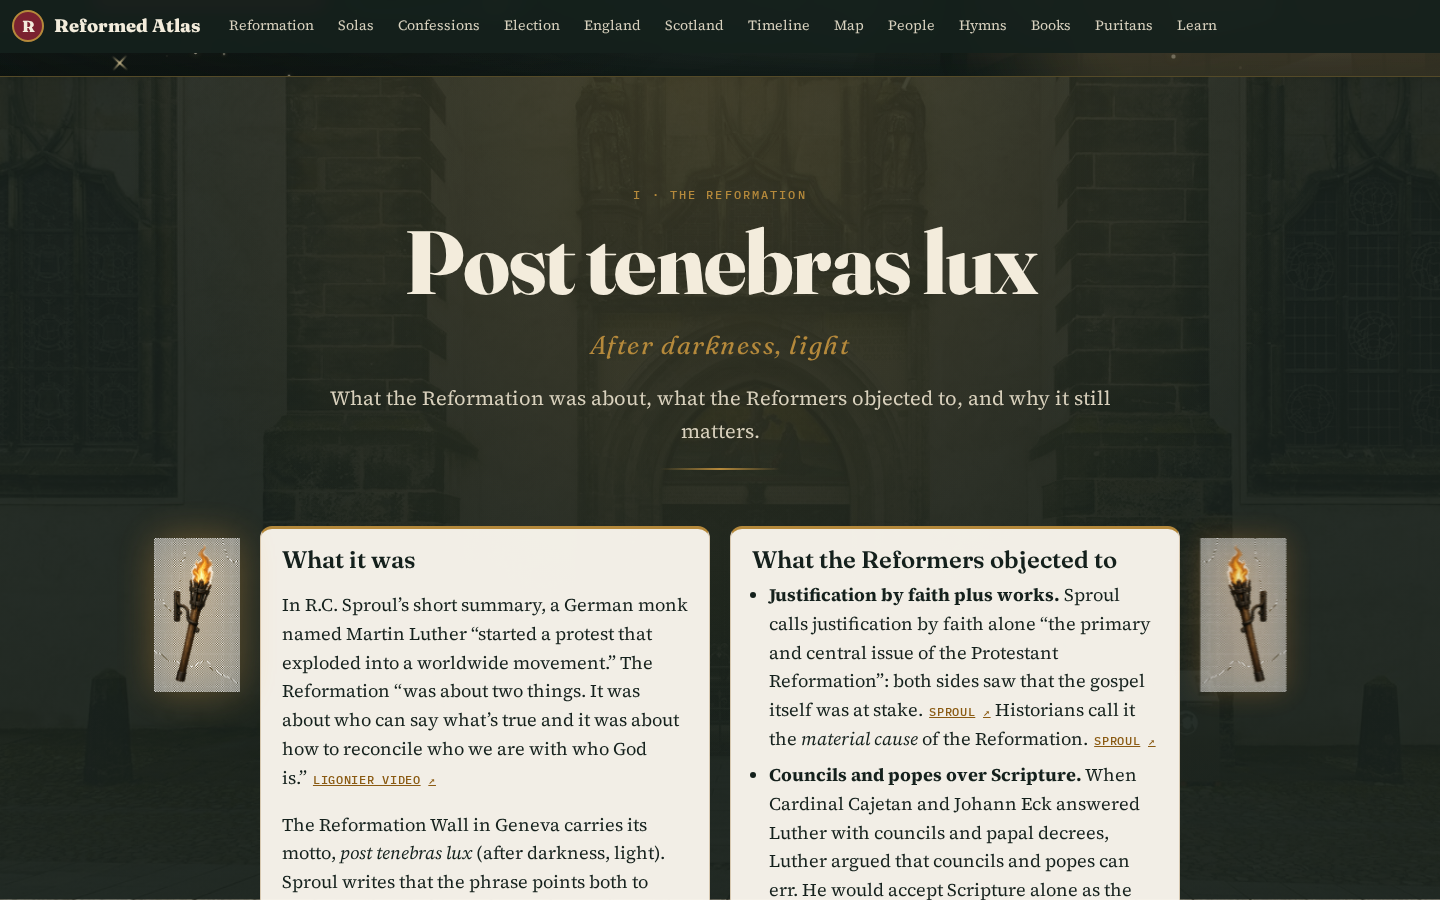
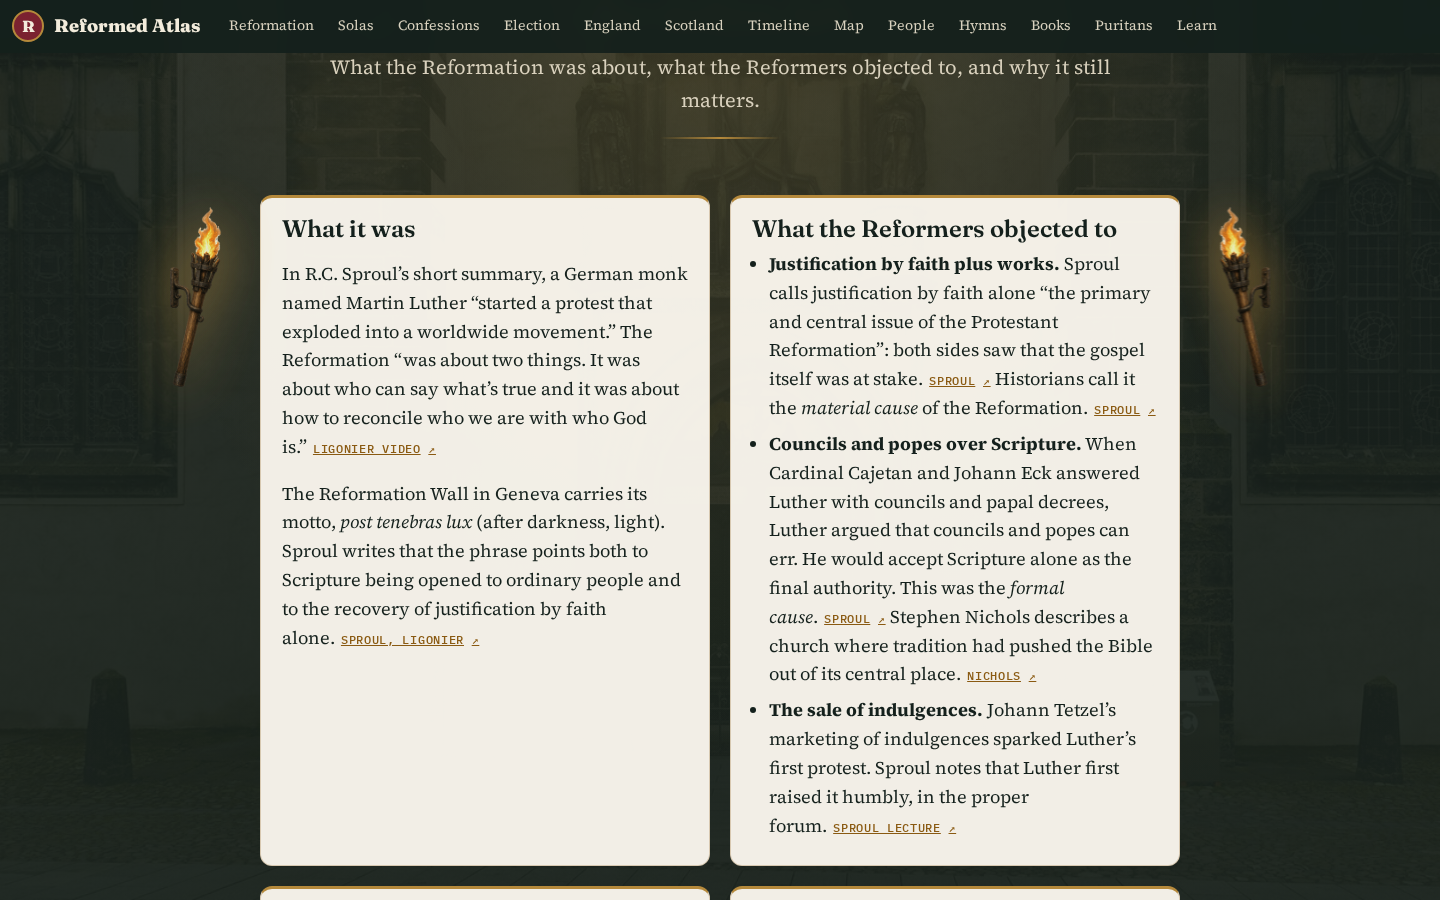
Reformed Atlas: cache-bust torch image

diff --git a/index.html b/index.html
@@ -49,7 +49,7 @@
 <section class="sec ref-hero" id="reformation">
   <div class="wrap ref-intro">
     <header class="head"><p class="kicker">I · The Reformation</p><h2 lang="la">Post tenebras lux</h2><p class="ref-motto-en">After darkness, light</p><p>What the Reformation was about, what the Reformers objected to, and why it still matters.</p></header>
-    <div class="ref-grid-stage"><img class="ref-torch l" src="./assets/torch.png" alt="" aria-hidden="true">
+    <div class="ref-grid-stage"><img class="ref-torch l" src="./assets/torch.png?v=2" alt="" aria-hidden="true">
     <div class="ref-grid">
       <article class="ref-block"><h3>What it was</h3>
         <p>In R.C. Sproul’s short summary, a German monk named Martin Luther “started a protest that exploded into a worldwide movement.” The Reformation “was about two things. It was about who can say what’s true and it was about how to reconcile who we are with who God is.”<a class="src" href="https://www.youtube.com/watch?v=Qd97uoZIqXI" target="_blank" rel="noopener">Ligonier video</a></p>
@@ -65,7 +65,7 @@
       <article class="ref-block"><h3>Why it matters today</h3>
         <p>“When the gospel is at stake, everything is at stake, because the gospel tells us how we can be right with God.” For Sproul, the question is still the Philippian jailer’s: “What must I do to be saved?” (Acts 16:30).<a class="src" href="https://learn.ligonier.org/articles/after-darkness-light" target="_blank" rel="noopener">Sproul</a></p>
         <p>Sproul draws the parallel himself: “Just like today, everyone had an opinion about the Bible even though almost no one had actually read it.”<a class="src" href="https://www.youtube.com/watch?v=Qd97uoZIqXI" target="_blank" rel="noopener">Ligonier video</a></p></article>
-    </div><img class="ref-torch r" src="./assets/torch.png" alt="" aria-hidden="true"></div>
+    </div><img class="ref-torch r" src="./assets/torch.png?v=2" alt="" aria-hidden="true"></div>
     <blockquote class="ref-quote">“The Bible alone is the only authority that can bind the conscience of a person absolutely because it is the only authority that carries with it the intrinsic authority of God Himself.”<cite>R.C. Sproul, <a class="src" href="https://learn.ligonier.org/articles/the-divine-foundation-of-authority" target="_blank" rel="noopener">“The Divine Foundation of Authority”</a></cite></blockquote>
     <div class="ref-voices" aria-label="Reformed voices on the Reformation">
       <p class="kicker">Voices on the Reformation</p>
